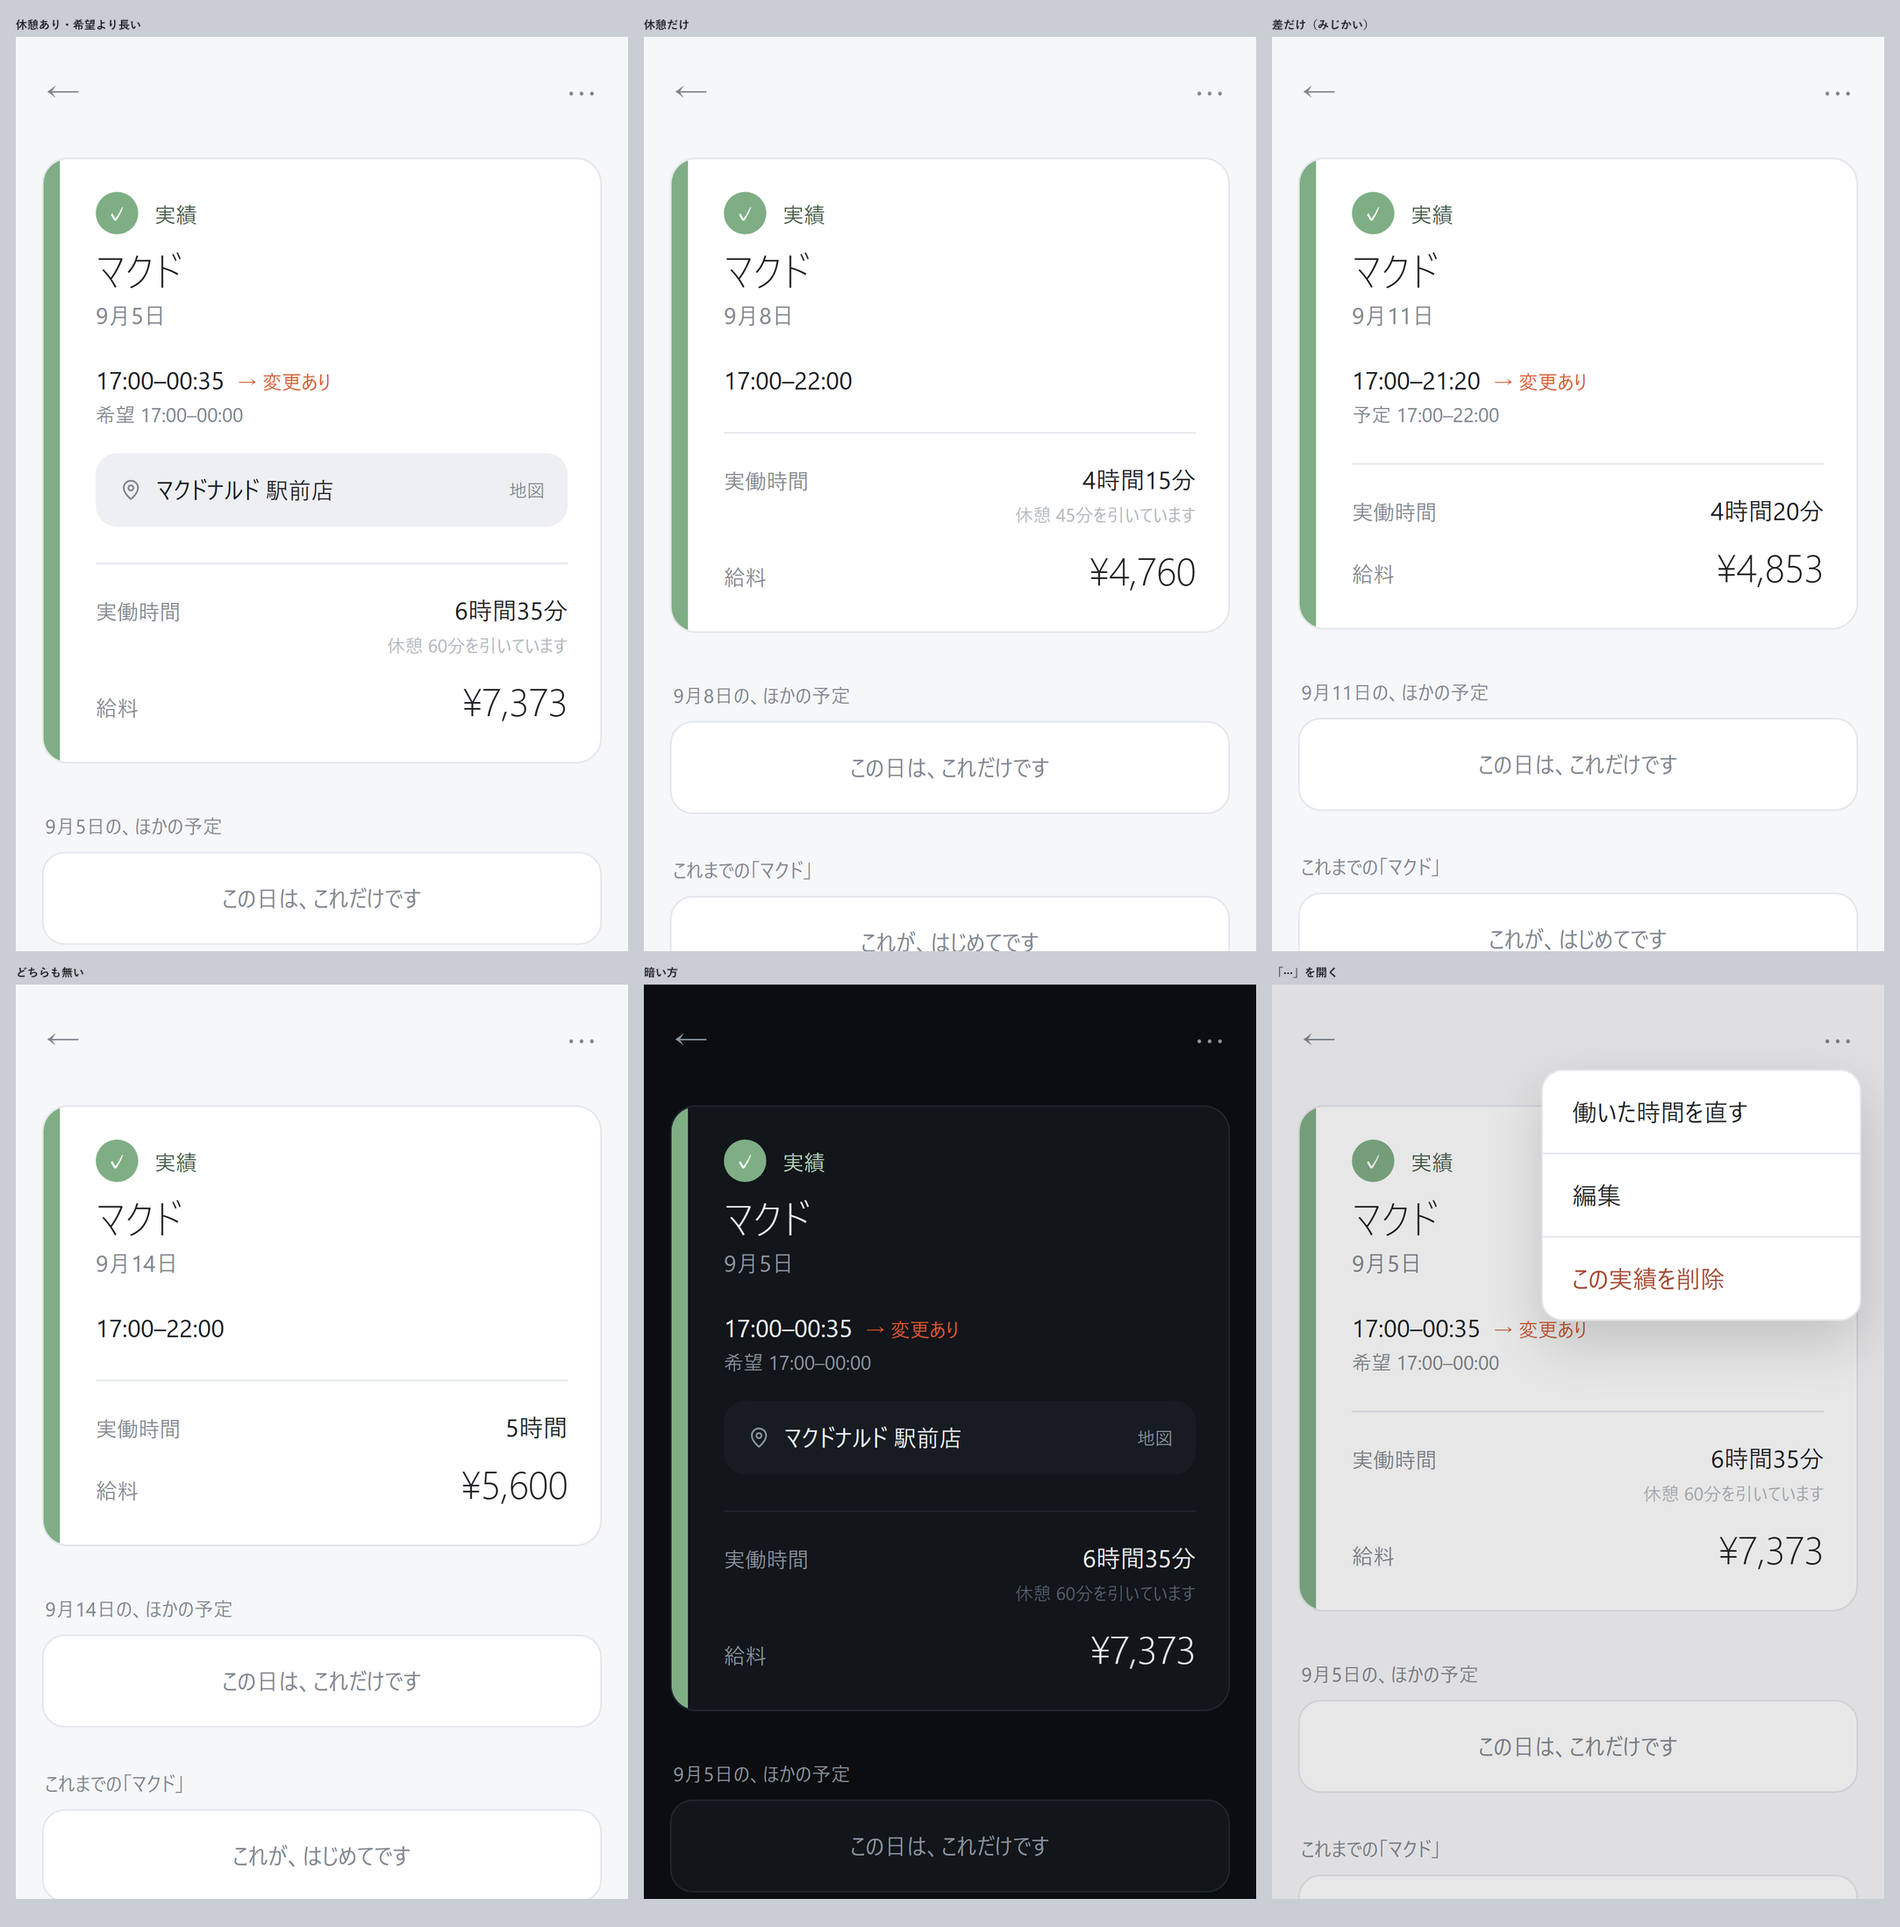
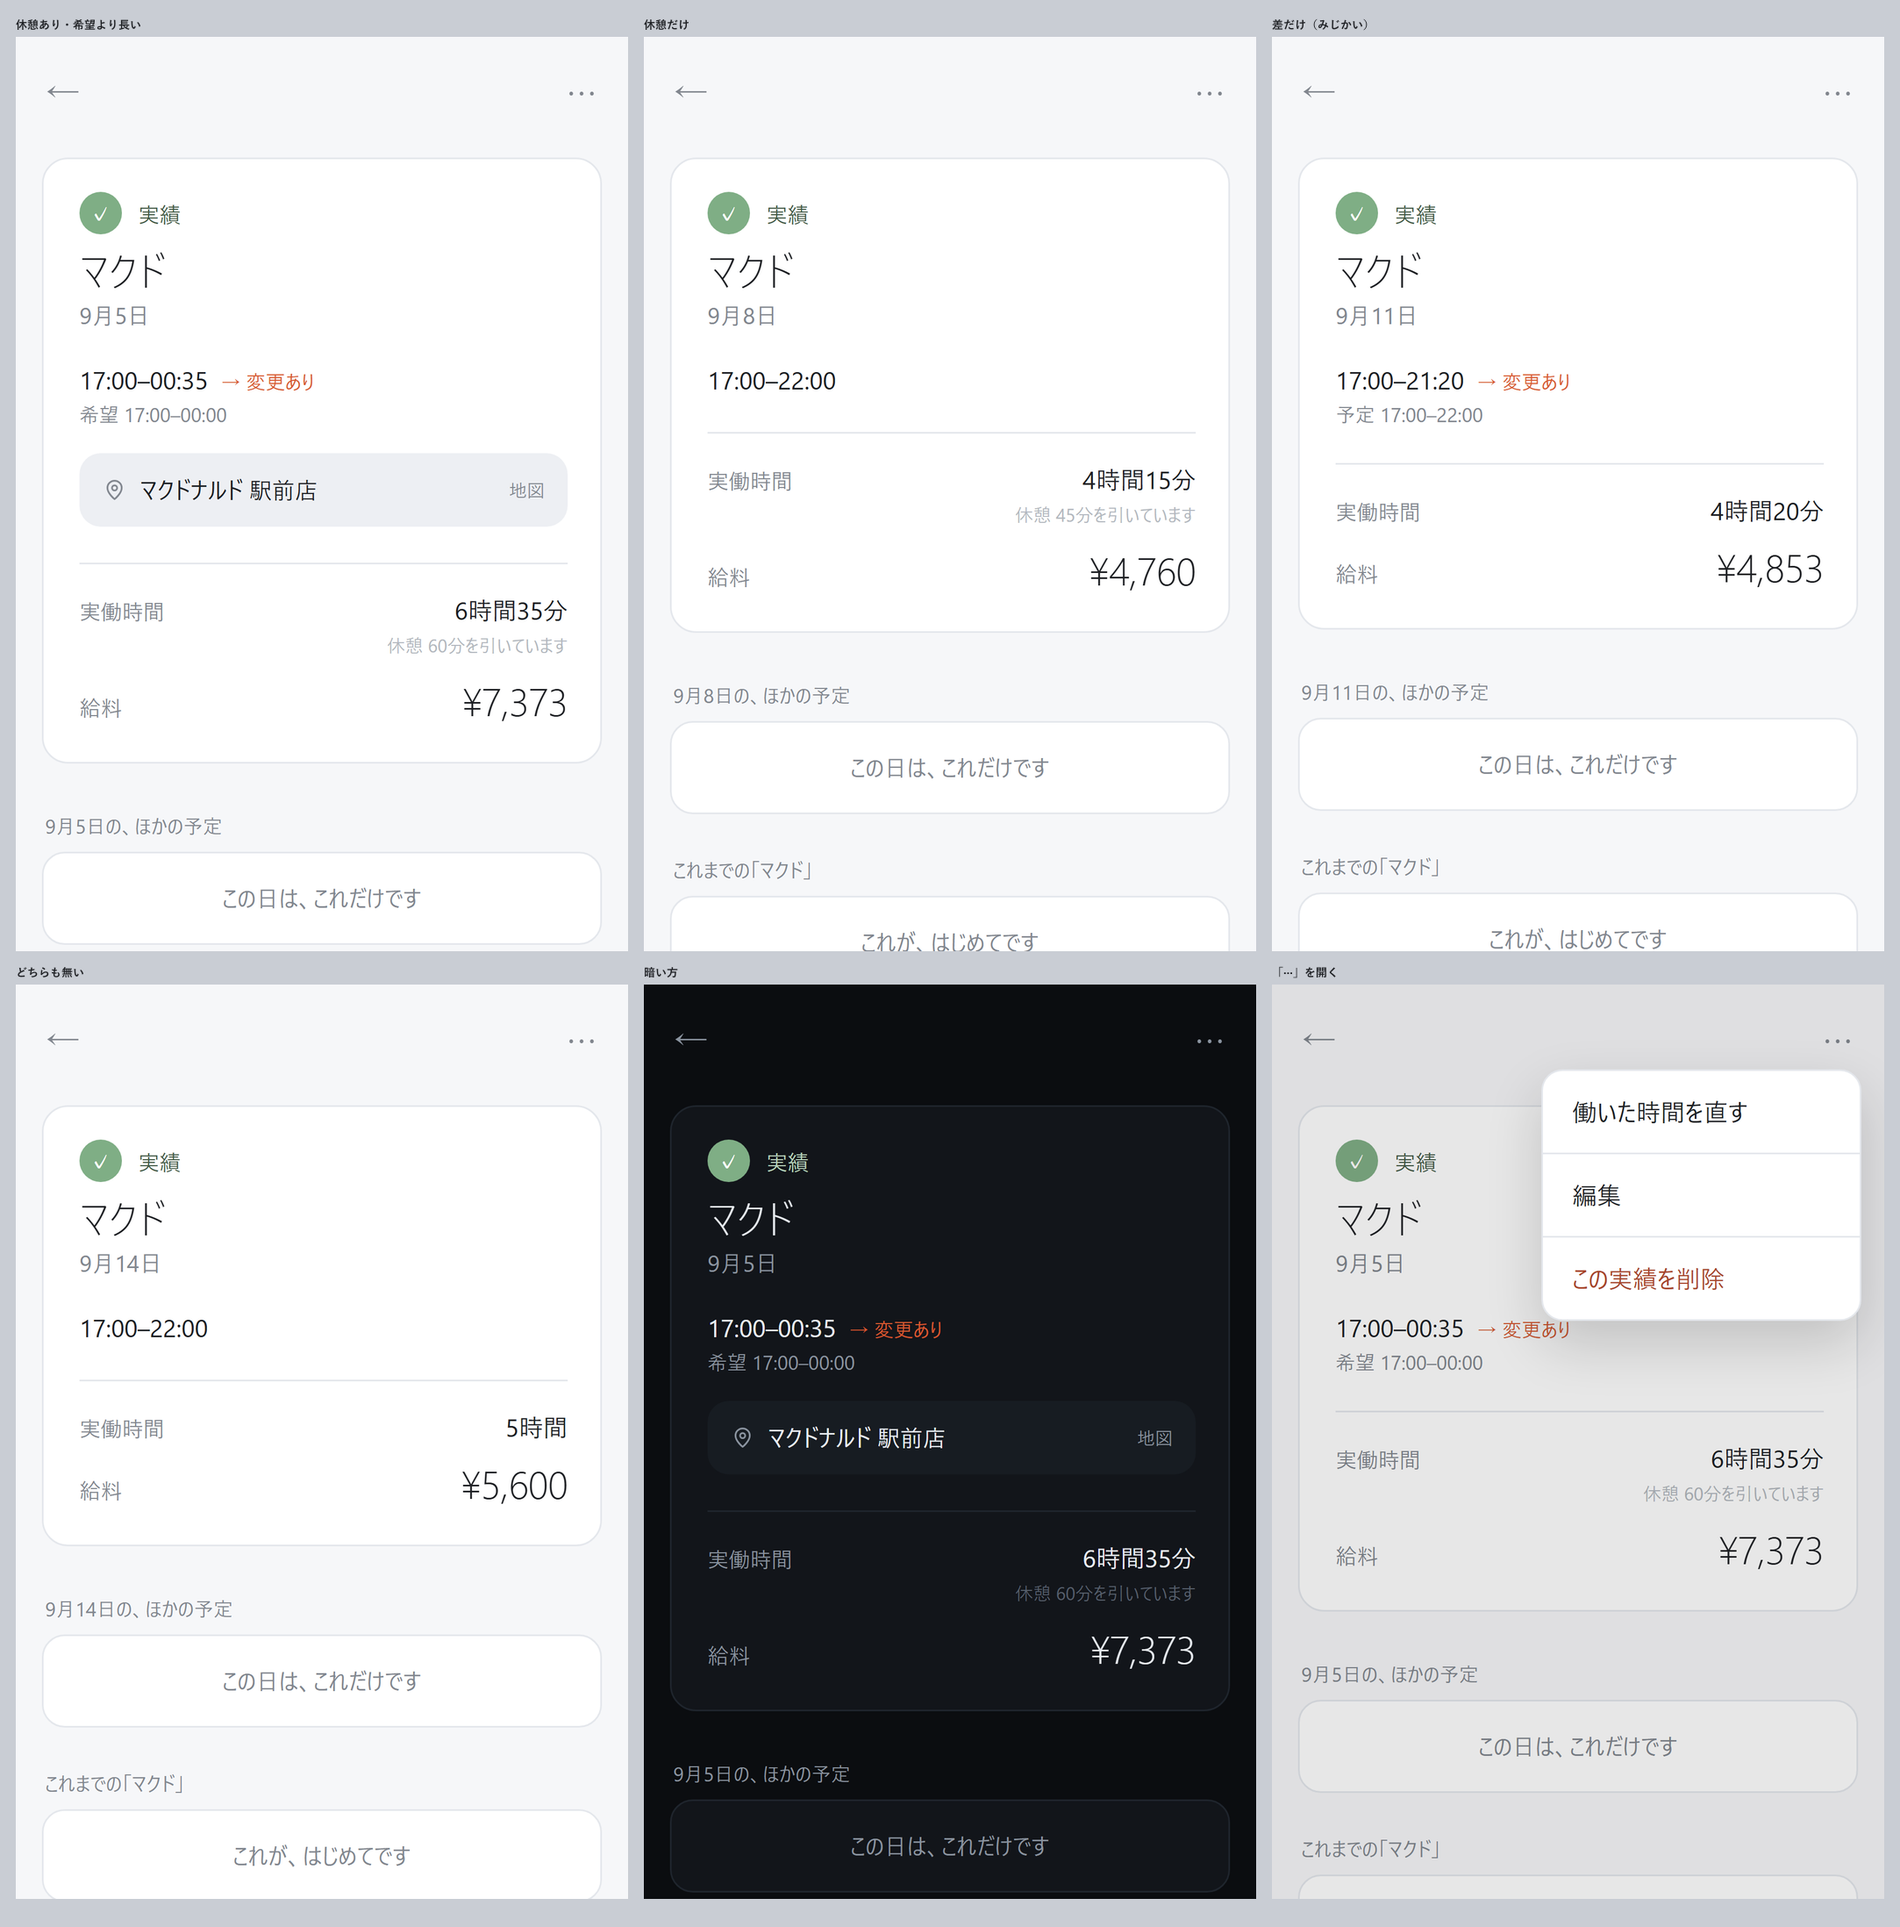
詳細カードの左の帯をやめる
進み具合のゲージだった（未確定34%・確定67%・実績100%・無くなった20%で
高さが変わり、状態が進むと 0.32 秒かけて伸びる）。言葉なしで「進んでいる」を
見せていた唯一の場所だが、無くても困らないという判断。

帯が無くなると種類の色もカードからほぼ消えるので、置き場を3案作って
実機で撮って比べた（上の辺に線／種類の札／面をほんのり色に）。
どれも足さないと決めた。store-assets/kind-color.png がそのときの絵。
残る色は左上の丸いバッジと状態の文字だけ。

ゲージのためだけにあった pct と gaugeTrackStyle / gaugeFillStyle を外し、
カードは flex をやめて素直に積むだけにした。

diff --git a/app/src/notices.js b/app/src/notices.js
@@ -11,7 +11,7 @@ export const RELEASE_NOTES = [
   {
     version: '0.29.0',
     title: '暗い画面の色を作り直しました',
-    body: 'ダークモードで、決まった予定（塗り）とまだの予定（点線）の見分けが付きにくくなっていました。原因は色そのものではなく、色の作り方です。予定の色を白へ寄せて面を作っていたので、暗い地の上では塗りもまだの紙も同じくらい明るくなり、二つが寄っていました。地の明暗を見てから面を作るように直しています。暗い画面では、塗りは地に沈めた面に、まだは面を敷かずに点線の枠だけにしました。二つの差は 1.22 倍から 1.51 倍になっています。あわせて画面の地を少し冷たい色にし、日曜の赤と土曜の青も暗い地で読める明るさに直しました（日曜は 2.82 倍から 5.86 倍）。明るい画面は 1 ピクセルも変えていません。予定の色そのものも変えていないので、ご自分で色を選んでいる方の設定はそのままです。あわせてアプリのアイコンを少し変えました。12個並んだ丸のうち3つを点線の輪にしています。決まった予定と、まだの予定。このアプリが言いたいことはその二つだけなので、アイコンにも入れました。実績（働いた記録）の画面で、「働いた時間を直す」を緑のボタンから右上の「···」の中へ移しました。緑はその予定が次へ進むときの色なので、記録し終えたものを直す操作には使わないことにしました。カードの中身はこれまでどおりです。',
+    body: 'ダークモードで、決まった予定（塗り）とまだの予定（点線）の見分けが付きにくくなっていました。原因は色そのものではなく、色の作り方です。予定の色を白へ寄せて面を作っていたので、暗い地の上では塗りもまだの紙も同じくらい明るくなり、二つが寄っていました。地の明暗を見てから面を作るように直しています。暗い画面では、塗りは地に沈めた面に、まだは面を敷かずに点線の枠だけにしました。二つの差は 1.22 倍から 1.51 倍になっています。あわせて画面の地を少し冷たい色にし、日曜の赤と土曜の青も暗い地で読める明るさに直しました（日曜は 2.82 倍から 5.86 倍）。明るい画面は 1 ピクセルも変えていません。予定の色そのものも変えていないので、ご自分で色を選んでいる方の設定はそのままです。あわせてアプリのアイコンを少し変えました。12個並んだ丸のうち3つを点線の輪にしています。決まった予定と、まだの予定。このアプリが言いたいことはその二つだけなので、アイコンにも入れました。実績（働いた記録）の画面で、「働いた時間を直す」を緑のボタンから右上の「···」の中へ移しました。緑はその予定が次へ進むときの色なので、記録し終えたものを直す操作には使わないことにしました。カードの中身はこれまでどおりです。あわせて、予定の詳細カードの左にあった色の帯をやめました。あれは進み具合（まだ→決まった→働いた）を高さで表していたものですが、無くても困らないと判断しました。',
   },
   {
     version: '0.26.0',

diff --git a/app/src/App.jsx b/app/src/App.jsx
@@ -2538,14 +2538,11 @@ export default class App extends React.Component {
     const ev = st.events.find(e=>e.id===st.detailId);
     if(ev){
       const t=this.T(ev.type);
-      const pct = ev.status==='mikakutei'?34: ev.status==='kakutei'?67: ev.status==='jisseki'?100: 20;
       v.dTitle=ev.title; v.dDay=ev.day; v.dTypeDark=this.typeInk(t);
       v.dStatusLabel = this.statusWord(ev);
       v.badgeChar = (ev.status==='jisseki'||ev.status==='kakutei')?'✓':'？';
       v.badgeStyle = { width:26,height:26,borderRadius:13,display:'inline-flex',alignItems:'center',justifyContent:'center',fontSize:14,fontWeight:700,transition:'all .3s cubic-bezier(.2,.9,.2,1)',
         ...(v.badgeChar==='✓'?{background:t.color,color:'#fff'}:{background:t.paper,color:t.dark,border:'1.5px dashed '+t.color}) };
-      v.gaugeTrackStyle={ width:10,alignSelf:'stretch',background:t.paper,position:'relative',flexShrink:0 };
-      v.gaugeFillStyle={ position:'absolute',left:0,right:0,bottom:0,height:pct+'%',background:t.color,transition:'height .32s cubic-bezier(.2,.9,.2,1)' };
       const endShown = ev.status==='jisseki'? (ev.actualEnd||ev.end) : ev.end;
       v.dTimeText = ev.allDay ? (evSpan(ev)>1 ? this.spanLabel(ev)+'　終日' : '終日') : ev.start+'–'+endShown;
       v.dSpanText = evSpan(ev)>1 ? evSpan(ev)+'日間' : '';

diff --git a/app/src/view.jsx b/app/src/view.jsx
@@ -669,11 +669,8 @@ export function renderApp(v) {
             <span role="button" aria-label="この予定の操作" style={s('font-size:20px;line-height:1;letter-spacing:2px;color:var(--ink-mut);cursor:pointer;padding:6px 0 6px 12px;user-select:none')} onClick={v.onOpenDetailMenu}>···</span>
           </div>
           <div style={s('flex:1;overflow-y:auto;padding:14px 16px 40px 16px')}>
-            <div style={s('background:var(--card);border-radius:16px;overflow:hidden;display:flex;border:1px solid var(--line);min-height:170px')}>
-              <div style={s(v.gaugeTrackStyle)}>
-                <div style={s(v.gaugeFillStyle)} />
-              </div>
-              <div style={s('flex:1;padding:20px 20px 22px 22px')}>
+            <div style={s('background:var(--card);border-radius:16px;overflow:hidden;border:1px solid var(--line);min-height:170px')}>
+              <div style={s('padding:20px 20px 22px 22px')}>
                 <div style={s('display:flex;align-items:center;gap:10px;margin-bottom:4px')}>
                   <span style={s(v.badgeStyle)}>{v.badgeChar}</span>
                   <span style={s(`font-size:13px;font-weight:400;color:${v.dTypeDark}`)}>{v.dStatusLabel}</span>

diff --git a/NEXT.md b/NEXT.md
@@ -43,6 +43,13 @@ cd app && node tools/asc.mjs status
   緑は「その予定が次の状態へ進む」ときの色（まだ→決まった→働いた）。
   記録し終えたものを直すのは次へ進む操作ではないので、色を借りてはいけない。
   実績のときだけ「···」の先頭に出る（働いた時間を直す／編集／この実績を削除）
+- [x] **詳細カードの左の帯（進み具合のゲージ）をやめた。**
+  未確定34%・確定67%・実績100%・無くなった20% で高さが変わり、状態が進むと
+  0.32秒かけて伸びるものだった。**言葉なしで「進んでいる」を見せていた唯一の場所**
+  だが、無くても困らないという判断。合わせて種類の色もカードからほぼ消えるので、
+  置き場を3案（上の辺に線／種類の札／面をほんのり色に）作って比べ、
+  **どれも足さないと決めた**（`store-assets/kind-color.png` がそのときの絵）。
+  残る色は左上の丸いバッジと状態の文字だけ
 - [ ] **表示は変えない、と決めた。** 案1「金額を主役に」（`tools/jisseki-card.cjs`）は
   一度入れて実機で撮って見たうえで戻した。
   そのときの絵が `store-assets/jisseki-an1.png`、いまの形が `jisseki-now.png`
